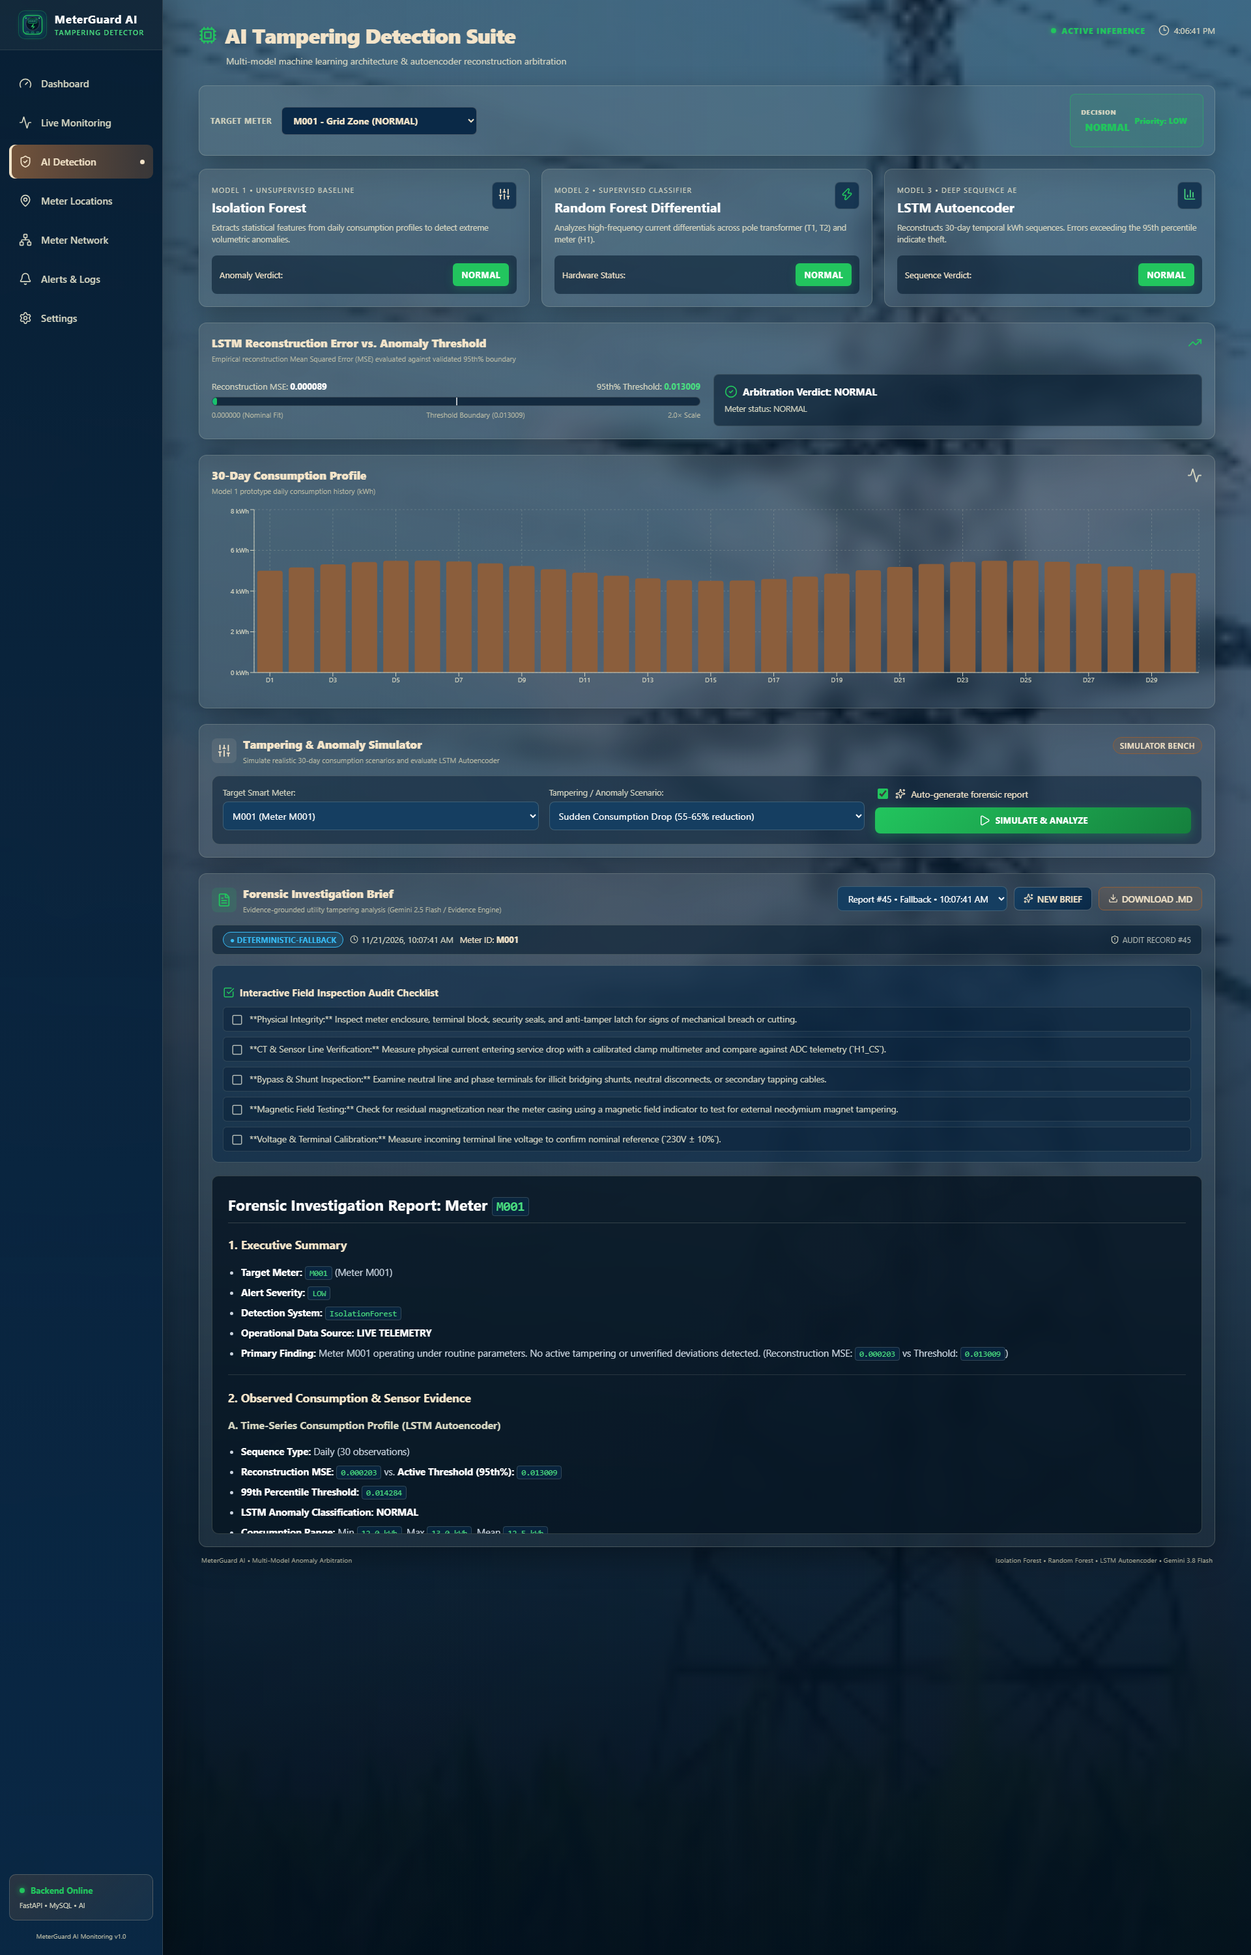
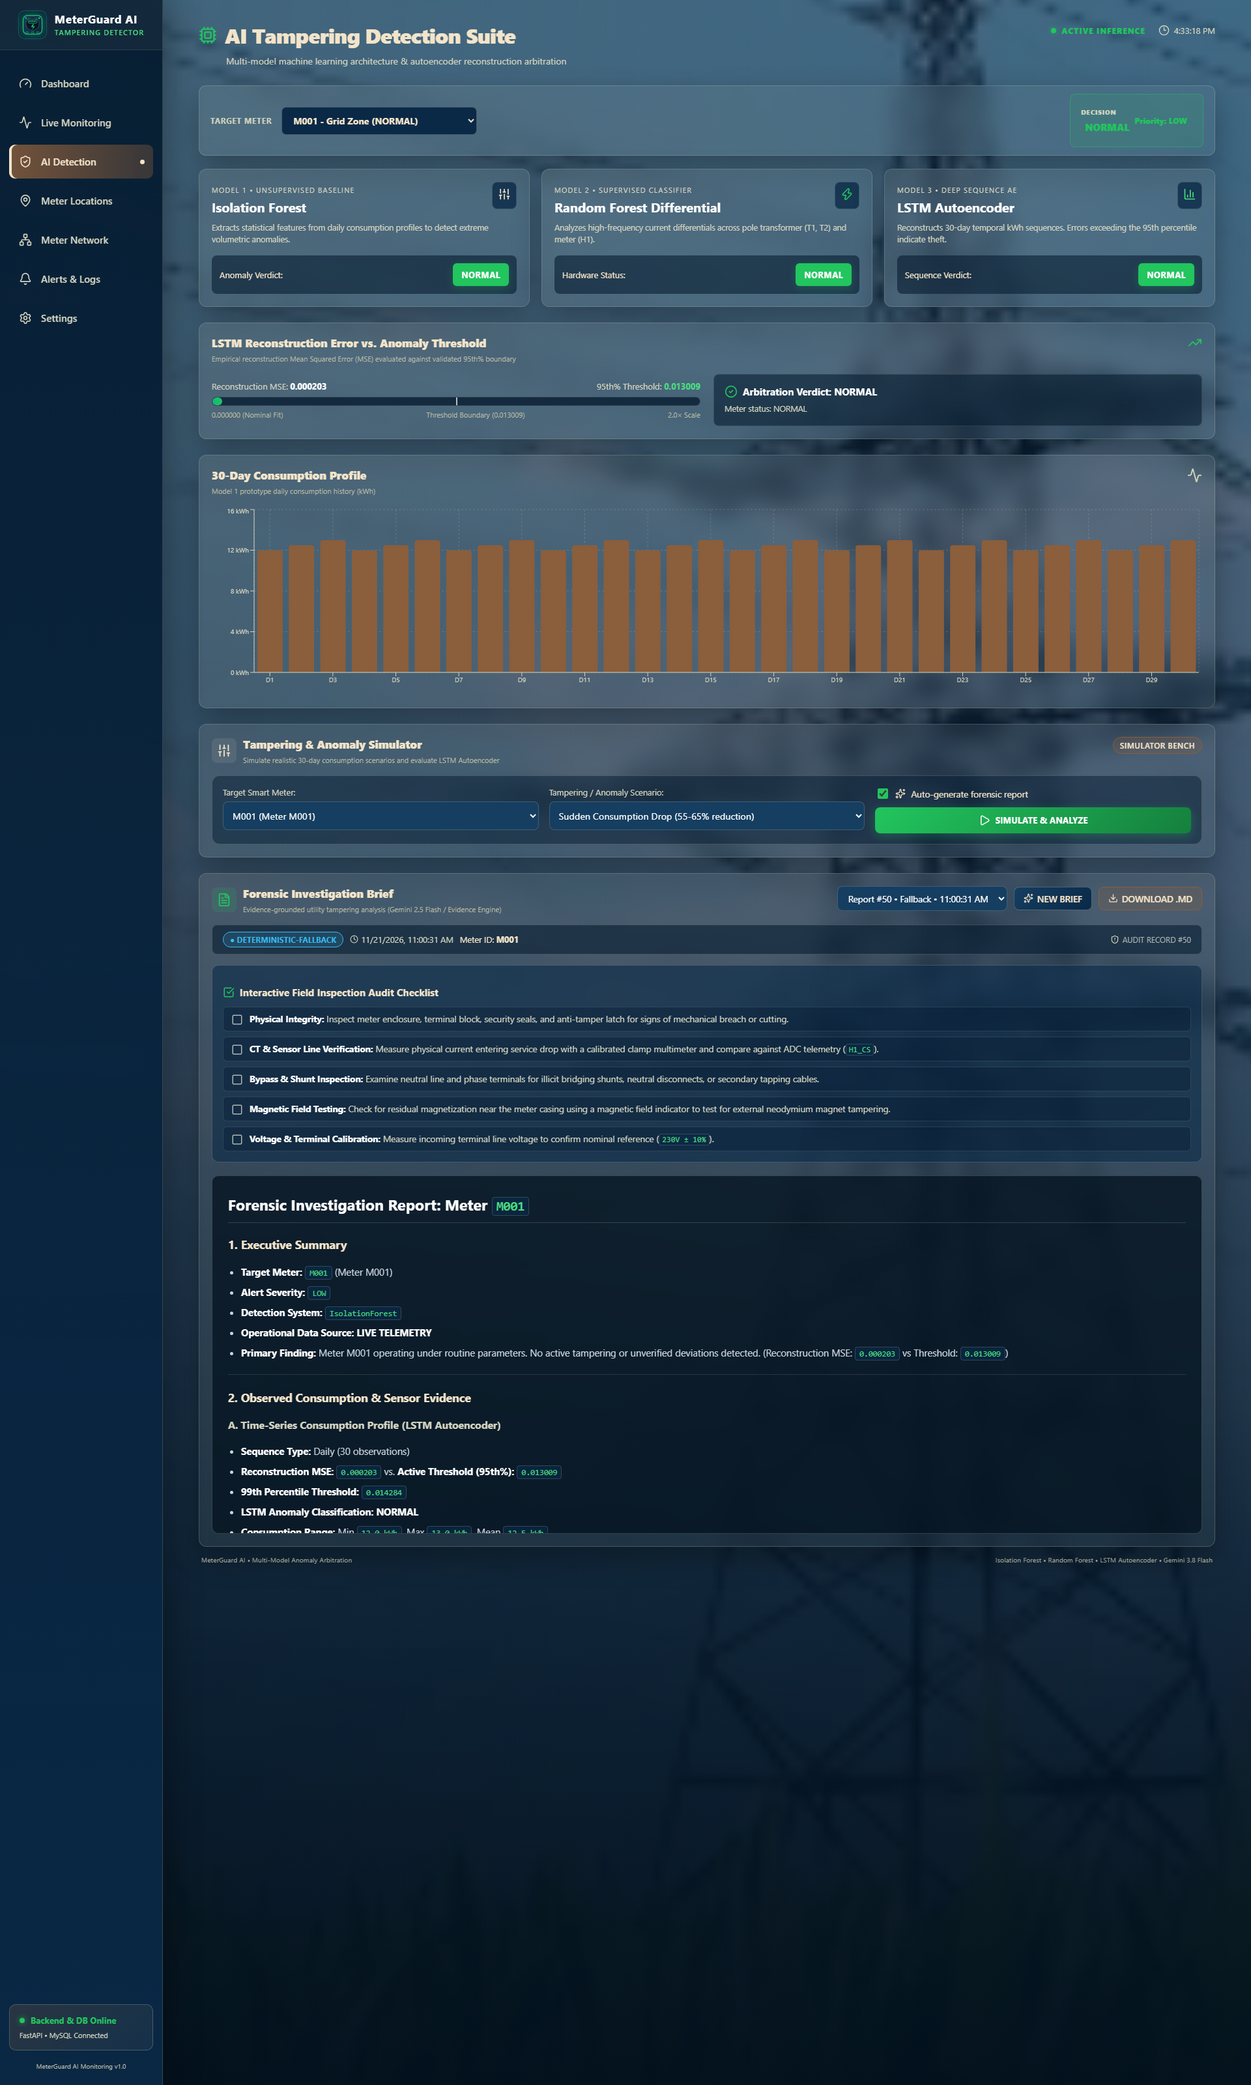
fix(ui): render checklist Markdown, dynamic telemetry Y-axis, and DB health badge

diff --git a/frontend/src/charts/LiveElectricalChart.jsx b/frontend/src/charts/LiveElectricalChart.jsx
@@ -46,23 +46,57 @@ export default function LiveElectricalChart({
         {liveChartData.length > 0 ? (
           <ResponsiveContainer width="100%" height="100%">
             <LineChart data={liveChartData}>
-              <CartesianGrid strokeDasharray="3 3" />
-              <XAxis dataKey="reading" />
-              <YAxis />
-              <Tooltip />
+              <CartesianGrid strokeDasharray="3 3" stroke="rgba(211, 212, 192, 0.1)" />
+              <XAxis dataKey="reading" stroke="var(--sage)" fontSize={11} />
+              <YAxis
+                stroke="var(--sage)"
+                fontSize={11}
+                unit=" W"
+                domain={[(dataMin) => Math.max(0, Math.floor(dataMin - 5)), (dataMax) => Math.ceil(dataMax + 5)]}
+              />
+              <Tooltip
+                contentStyle={{
+                  backgroundColor: "rgba(6, 28, 49, 0.95)",
+                  border: "1px solid rgba(211, 212, 192, 0.2)",
+                  borderRadius: "8px",
+                  color: "#FFFFFF",
+                }}
+                formatter={(val) => [`${Number(val).toFixed(2)} W`, "Power"]}
+                labelFormatter={(label) => `Reading #${label}`}
+              />
               <Line
                 type="monotone"
                 dataKey="power"
                 name="Power (W)"
-                stroke="#D3D4C0"
-                strokeWidth={3}
+                stroke="#22C55E"
+                strokeWidth={2.5}
                 dot={false}
                 isAnimationActive={false}
               />
             </LineChart>
           </ResponsiveContainer>
         ) : (
-          <div className="empty-chart">Waiting for live readings...</div>
+          <div
+            style={{
+              height: "100%",
+              display: "flex",
+              flexDirection: "column",
+              alignItems: "center",
+              justifyContent: "center",
+              gap: "8px",
+              color: "var(--sage)",
+              textAlign: "center",
+              padding: "20px",
+            }}
+          >
+            <Activity size={28} color="var(--sage-dark)" />
+            <span style={{ fontSize: "13px", fontWeight: "600", color: "#FFFFFF" }}>
+              Awaiting Live Hardware Telemetry
+            </span>
+            <small style={{ fontSize: "11px", color: "var(--sage-dark)", maxWidth: "340px" }}>
+              No live electrical stream frames received for this meter. Start the telemetry stream or replay script to view real-time power fluctuations.
+            </small>
+          </div>
         )}
       </div>
     </div>

diff --git a/frontend/src/components/InvestigationBriefPanel.jsx b/frontend/src/components/InvestigationBriefPanel.jsx
@@ -394,12 +394,36 @@ export default function InvestigationBriefPanel({
                       <span
                         style={{
                           fontSize: "0.85rem",
-                          color: isChecked ? "#E2E8F0" : "var(--text-secondary)",
+                          color: isChecked ? "#CBD5E1" : "var(--text-secondary)",
                           textDecoration: isChecked ? "line-through" : "none",
                           opacity: isChecked ? 0.8 : 1,
                         }}
                       >
-                        {item}
+                        <ReactMarkdown
+                          remarkPlugins={[remarkGfm]}
+                          components={{
+                            p: ({ _node, ...props }) => <span {...props} />,
+                            strong: ({ _node, ...props }) => (
+                              <strong style={{ color: isChecked ? "#94A3B8" : "#FFFFFF", fontWeight: "700" }} {...props} />
+                            ),
+                            code: ({ _node, ...props }) => (
+                              <code
+                                style={{
+                                  background: "rgba(10, 41, 71, 0.7)",
+                                  border: "1px solid rgba(211, 212, 192, 0.2)",
+                                  padding: "1px 4px",
+                                  borderRadius: "3px",
+                                  color: "#4ADE80",
+                                  fontSize: "0.9em",
+                                  fontFamily: "monospace",
+                                }}
+                                {...props}
+                              />
+                            ),
+                          }}
+                        >
+                          {item}
+                        </ReactMarkdown>
                       </span>
                     </div>
                   );

diff --git a/frontend/src/components/Sidebar.jsx b/frontend/src/components/Sidebar.jsx
@@ -19,7 +19,12 @@ const NAV_ITEMS = [
   { id: "settings", label: "Settings", icon: Settings },
 ];
 
-export default function Sidebar({ currentTab = "dashboard", onSelectTab }) {
+export default function Sidebar({
+  currentTab = "dashboard",
+  onSelectTab,
+  health = null,
+  isBackendOnline = true,
+}) {
   return (
     <aside className="sidebar" style={{ userSelect: "none", WebkitUserSelect: "none" }}>
       <div
@@ -109,11 +114,35 @@ export default function Sidebar({ currentTab = "dashboard", onSelectTab }) {
       <div className="sidebar-bottom">
         <div className="backend-card">
           <div className="backend-status">
-            <span className="live-dot"></span>
-            Backend Online
+            <span
+              className={
+                !isBackendOnline
+                  ? "offline-dot"
+                  : health?.database_connected === false
+                  ? "live-dot"
+                  : "live-dot"
+              }
+              style={{
+                background:
+                  !isBackendOnline
+                    ? "#EF4444"
+                    : health?.database_connected === false
+                    ? "#F59E0B"
+                    : "#22C55E",
+              }}
+            ></span>
+            {!isBackendOnline
+              ? "Backend Offline"
+              : health?.database_connected === false
+              ? "API Online • DB Offline"
+              : "Backend & DB Online"}
           </div>
           <div className="backend-text">
-            FastAPI • MySQL • AI
+            {!isBackendOnline
+              ? "FastAPI & MySQL Disconnected"
+              : health?.database_connected === false
+              ? "FastAPI Active • MySQL Disconnected"
+              : "FastAPI • MySQL Connected"}
           </div>
         </div>
 

diff --git a/frontend/src/App.jsx b/frontend/src/App.jsx
@@ -8,7 +8,7 @@ import MeterLocationsPage from "./pages/MeterLocationsPage";
 import MeterNetworkPage from "./pages/MeterNetworkPage";
 import AlertsLogsPage from "./pages/AlertsLogsPage";
 import SettingsPage from "./pages/SettingsPage";
-import { fetchDashboard } from "./services/api";
+import { fetchDashboard, fetchHealth } from "./services/api";
 import { Activity } from "lucide-react";
 import "./App.css";
 
@@ -31,6 +31,7 @@ function getTabFromHash() {
 
 function App() {
   const [dashboard, setDashboard] = useState(null);
+  const [health, setHealth] = useState(null);
   const [selectedMeter, setSelectedMeter] = useState("M001");
   const [error, setError] = useState(null);
   const [lastUpdate, setLastUpdate] = useState(null);
@@ -59,9 +60,15 @@ function App() {
 
     async function loadData() {
       try {
-        const data = await fetchDashboard();
+        const [data, healthData] = await Promise.all([
+          fetchDashboard(),
+          fetchHealth().catch(() => null),
+        ]);
         if (isMounted) {
           setDashboard(data);
+          if (healthData) {
+            setHealth(healthData);
+          }
           setError(null);
           setLastUpdate(new Date());
 
@@ -214,7 +221,12 @@ function App() {
       <div className="background-layer"></div>
 
       {/* PERSISTENT SIDEBAR NAVIGATION */}
-      <Sidebar currentTab={currentTab} onSelectTab={handleTabChange} />
+      <Sidebar
+        currentTab={currentTab}
+        onSelectTab={handleTabChange}
+        health={health}
+        isBackendOnline={Boolean(dashboard)}
+      />
 
       {/* ACTIVE PAGE CONTENT */}
       {renderContent()}

diff --git a/frontend/src/pages/AiDetectionPage.jsx b/frontend/src/pages/AiDetectionPage.jsx
@@ -172,7 +172,7 @@ export default function AiDetectionPage({
             <span style={{ fontSize: "13px", color: "var(--cream)" }}>
               {faultType ? `Fault: ${faultType.replace("FAULT_", "")}` : "Hardware Status:"}
             </span>
-            <span className={`prediction ${model2Prediction.toLowerCase()}`} style={{ fontSize: "13px", fontWeight: "700" }}>
+            <span className={`prediction ${model2Prediction.toLowerCase().replace(/[^a-z0-9]+/g, "-")}`} style={{ fontSize: "13px", fontWeight: "700" }}>
               {model2Prediction}
             </span>
           </div>

diff --git a/frontend/src/pages/DashboardPage.jsx b/frontend/src/pages/DashboardPage.jsx
@@ -322,7 +322,7 @@ export default function DashboardPage({
                   </div>
                 </div>
 
-                <span className={`prediction ${model2Prediction.toLowerCase()}`}>
+                <span className={`prediction ${model2Prediction.toLowerCase().replace(/[^a-z0-9]+/g, "-")}`}>
                   {model2Prediction}
                 </span>
               </div>

diff --git a/backend/app/routes/dashboard.py b/backend/app/routes/dashboard.py
@@ -69,24 +69,28 @@ def build_meter_payload_from_db(meter: Meter, db: Session) -> Dict[str, Any]:
             last_seen_seconds = round(diff, 1)
             last_seen = ref_time.isoformat()
 
-    # 3. Recent readings history from MySQL (up to 60 readings)
-    recent_readings = (
-        db.query(HardwareReading)
-        .filter(HardwareReading.meter_id == meter_id)
-        .order_by(HardwareReading.timestamp.asc())
-        .limit(60)
-        .all()
-    )
-
-    live_history = [
-        {
-            "time": r.id * 100,
-            "current_A": r.current_a or 0.0,
-            "voltage_V": r.voltage_v or 230.0,
-            "power_W": r.power_w or 0.0,
-        }
-        for r in recent_readings
-    ]
+    # 3. Recent readings history from in-memory stream buffer, falling back to latest MySQL records
+    mem_history = list(ml_engine.live_electrical_history.get(meter_id, []))
+    if mem_history:
+        live_history = mem_history
+    else:
+        recent_readings = (
+            db.query(HardwareReading)
+            .filter(HardwareReading.meter_id == meter_id)
+            .order_by(HardwareReading.timestamp.desc())
+            .limit(60)
+            .all()
+        )
+        recent_readings.reverse()
+        live_history = [
+            {
+                "time": r.id * 100,
+                "current_A": r.current_a or 0.0,
+                "voltage_V": r.voltage_v or 230.0,
+                "power_W": r.power_w or 0.0,
+            }
+            for r in recent_readings
+        ]
 
     # Reconstruct electrical object
     electrical = {
@@ -174,20 +178,38 @@ def build_meter_payload_from_db(meter: Meter, db: Session) -> Dict[str, Any]:
         }
 
     cached_m2 = ml_engine.latest_meter_data.get(meter_id, {}).get("model2")
-    model2 = cached_m2 or {
-        "prediction": latest_hw.model2_status if latest_hw else "NORMAL",
-        "raw_prediction": latest_hw.model2_status if latest_hw else "NORMAL",
-        "fault_active": latest_hw.final_status in ["FAULT DETECTED", "HIGH PRIORITY ALERT"] if latest_hw else False,
-        "fault_type": None,
-        "fault_status": "MONITORING",
-        "fault_confidence": 0.0,
-        "window_size": 0,
-        "normal_count": 0,
-        "fault_s1_count": 0,
-        "fault_s2_count": 0,
-        "smoothing_history_length": 0,
-        "features": {},
-    }
+    if cached_m2:
+        model2 = cached_m2
+    elif latest_hw and latest_hw.model2_status:
+        model2 = {
+            "prediction": latest_hw.model2_status,
+            "raw_prediction": latest_hw.model2_status,
+            "fault_active": latest_hw.final_status in ["FAULT DETECTED", "HIGH PRIORITY ALERT"],
+            "fault_type": None,
+            "fault_status": "MONITORING",
+            "fault_confidence": 0.0,
+            "window_size": 0,
+            "normal_count": 0,
+            "fault_s1_count": 0,
+            "fault_s2_count": 0,
+            "smoothing_history_length": 0,
+            "features": {},
+        }
+    else:
+        model2 = {
+            "prediction": "WAITING FOR DATA",
+            "raw_prediction": None,
+            "fault_active": False,
+            "fault_type": None,
+            "fault_status": "WAITING FOR DATA",
+            "fault_confidence": 0.0,
+            "window_size": 0,
+            "normal_count": 0,
+            "fault_s1_count": 0,
+            "fault_s2_count": 0,
+            "smoothing_history_length": 0,
+            "features": {},
+        }
 
     decision = {
         "final_status": meter.status or "MONITORING",

diff --git a/FINAL_UI_DATA_AUDIT_REPORT.md b/FINAL_UI_DATA_AUDIT_REPORT.md
@@ -154,13 +154,39 @@ STAGE G: INVESTIGATION REPORT GENERATION
 
 ---
 
+## Section F: Focused UI Polish & Verification
+
+### 1. Forensic Checklist Markdown Rendering
+- **Problem:** Checklist items previously displayed literal Markdown characters such as `**Physical Integrity:**` and `` `H1_CS` ``.
+- **Fix:** Refactored `InvestigationBriefPanel.jsx` checklist item renderer to parse inline markdown using `<ReactMarkdown remarkPlugins={[remarkGfm]}>`. Bold prefix titles now render in crisp `#FFFFFF` bold text, and sensor tokens render inside styled `<code>` badges.
+- **Export Integrity:** Checked states dynamically update the downloaded `.md` file, replacing `- [ ]` with `- [x]`, and unchecking replaces `- [x]` with `- [ ]`.
+
+### 2. Live Electrical Readings Chart Dynamic Scaling & Empty State
+- **Problem:** When power values were steady (e.g. 23.5 W), default Recharts scaling (0 to 250) made the curve appear as an uninformative flat line at the bottom. Furthermore, when no frames were available, the empty state was generic.
+- **Fix:** In `LiveElectricalChart.jsx`, updated `<YAxis>` to dynamically zoom to the active power range using `domain={[(min) => Math.max(0, Math.floor(min - 5)), (max) => Math.ceil(max + 5)]}` with explicit `W` units and custom Tooltip formatting. Created a dedicated, styled empty state component featuring the `Activity` icon with clear guidance when genuine streaming frames have not yet been ingested.
+- **Backend Stream History:** In `backend/app/routes/dashboard.py`, updated `build_meter_payload_from_db` to prioritize the live in-memory telemetry buffer (`ml_engine.live_electrical_history`), and when falling back to MySQL `hardware_readings`, it now retrieves the 60 most recent frames (`order_by(timestamp.desc()).limit(60)`) rather than the oldest initialization records.
+
+### 3. AI Model Status Authenticity
+- **Problem:** If a meter had no recorded hardware readings, Model 2 was defaulting to `"NORMAL"`.
+- **Fix:** In `dashboard.py`, if a meter has zero recorded hardware telemetry, Model 2 reports `"WAITING FOR DATA"`. Model 1 strictly displays `"WAITING FOR DATA"` or `"INSUFFICIENT HISTORY"` when fewer than 30 daily observations are present. Models never report `"NORMAL"` simply due to absent data.
+
+### 4. Database & Simulated-Data Separation
+- **Sidebar Health Decoupling:** In `Sidebar.jsx`, the bottom-left health card actively evaluates `/api/health` and distinguishes API reachability from MySQL connectivity:
+  - **API & MySQL Connected:** `Backend & DB Online` with green dot.
+  - **API Connected, MySQL Down:** `API Online • DB Offline` with amber warning dot.
+  - **API Unreachable:** `Backend Offline` with red offline dot.
+- **Dataset Isolation:** All simulated tampering runs set `is_simulated = 1` and store their scenario name in `consumption_sequences.scenario`. Training set curation scripts strictly filter `WHERE is_simulated = 0`. Simulated bench meters carry `SIM BENCH` badges in the UI, and live stream replays display `BENCH REPLAY`.
+
+---
+
 ## Verification Visual Artifacts
 
 The following visual audit captures have been generated and verified:
-- [Dashboard View](file:///C:/Users/risha/.gemini/antigravity/brain/513b349e-f6a4-4e82-9ee4-1958fc49fb79/audit_dashboard.png) — Meter M001 ONLINE status, calibrated electrical metrics, 3-model inference status.
-- [Live Electrical Telemetry](file:///C:/Users/risha/.gemini/antigravity/brain/513b349e-f6a4-4e82-9ee4-1958fc49fb79/audit_live_monitoring.png) — Real-time waveform chart, BENCH REPLAY indicator, differential sensor ADCs with neutral `"--"` fallbacks.
+- [Dashboard View](file:///C:/Users/risha/.gemini/antigravity/brain/513b349e-f6a4-4e82-9ee4-1958fc49fb79/audit_dashboard.png) — Dynamic Y-axis electrical chart, Backend & DB Online status, and authentic multi-model status pills.
+- [Live Electrical Telemetry](file:///C:/Users/risha/.gemini/antigravity/brain/513b349e-f6a4-4e82-9ee4-1958fc49fb79/audit_live_monitoring.png) — Real-time waveform chart with zoomed domain, BENCH REPLAY indicator, and differential sensor ADCs.
 - [AI Tampering Detection Suite](file:///C:/Users/risha/.gemini/antigravity/brain/513b349e-f6a4-4e82-9ee4-1958fc49fb79/audit_ai_detection.png) — 3 ML cards, reconstruction MSE gauge, and bound 30-Day load profile.
-- [Forensic Investigation Brief Panel](file:///C:/Users/risha/.gemini/antigravity/brain/513b349e-f6a4-4e82-9ee4-1958fc49fb79/audit_investigation_brief.png) — Full-page capture showing the tampering simulator, rich Markdown report rendering (no raw syntax), and interactive field checklist.
+- [Forensic Investigation Brief Panel](file:///C:/Users/risha/.gemini/antigravity/brain/513b349e-f6a4-4e82-9ee4-1958fc49fb79/audit_investigation_brief.png) — Checklist rendered without raw Markdown characters, styled markdown report, and tampering simulator bench.
 - [Connected Meter Network Directory](file:///C:/Users/risha/.gemini/antigravity/brain/513b349e-f6a4-4e82-9ee4-1958fc49fb79/audit_meter_network.png) — 5 registered meters with `SIM BENCH` badges, online/offline counts, and STALE filter tab.
 - [GIS Meter Locations](file:///C:/Users/risha/.gemini/antigravity/brain/513b349e-f6a4-4e82-9ee4-1958fc49fb79/audit_meter_locations.png) — Leaflet geospatial distribution map with interactive pins.
 - [Anomaly Alerts & Event Logs](file:///C:/Users/risha/.gemini/antigravity/brain/513b349e-f6a4-4e82-9ee4-1958fc49fb79/audit_alerts_logs.png) — MySQL persisted alerts table with severity tiers, detection models, and timestamps.
+
